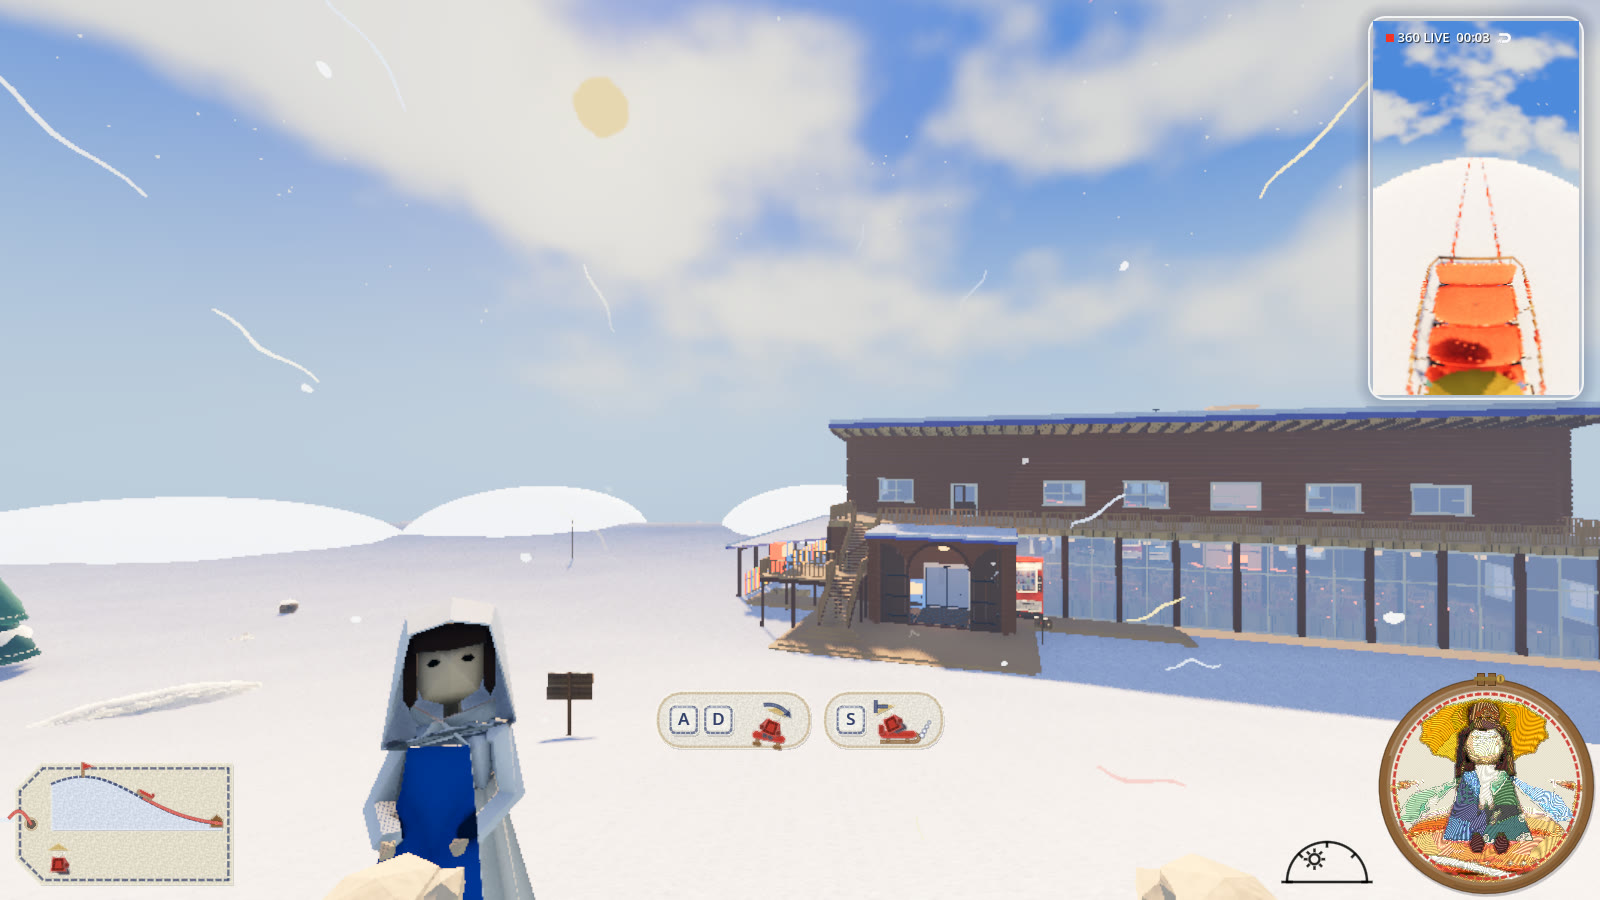
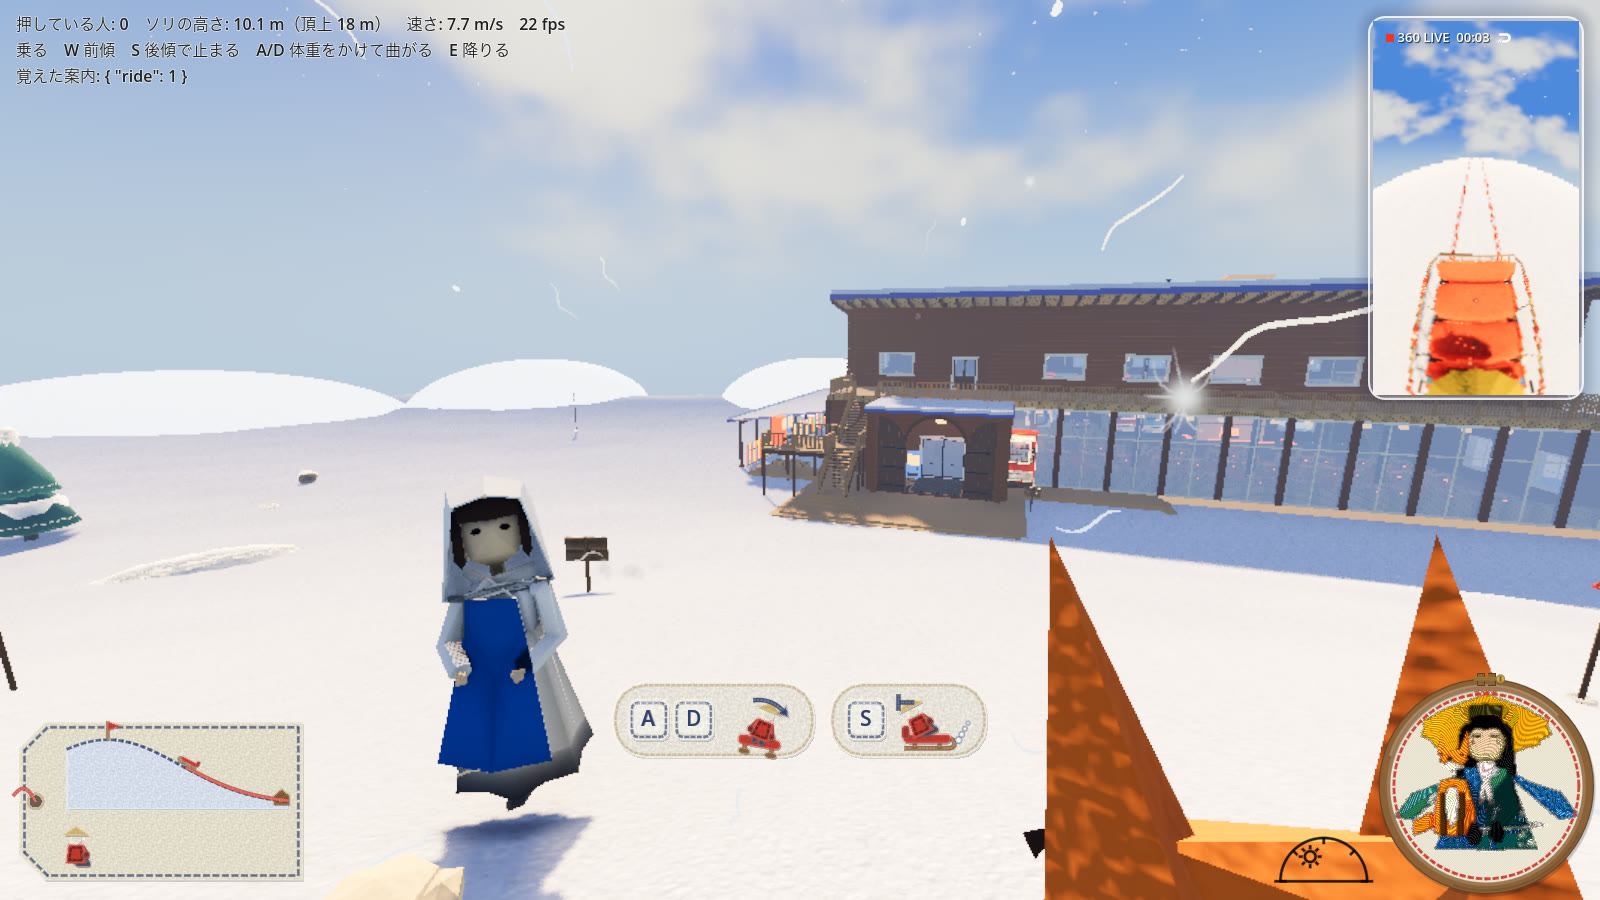
右下の小窓に、自分・連れ・持ち物だけを映す
小窓に映すのを、自分の人形・連れの動物・手に持った物・自分の身ぶりの飾りだけにした。地面・ソリ・ほかの人・木・ロッジ・空は映さず、背景は刺繍枠の布の地。
- 小窓のカメラは、自分の体の層（層 2）と小窓だけの層（層 6）だけを映す
- 自分の白い息を自分の体の層にも入れ、子狐とハイタッチの紙吹雪を層 6 にも入れた（ほかの画面の見え方は変わらない）
- 足もとに丸い影を敷き（層 6、人形の子なので乗れば座面に）、浮いて見えないようにした
- 塞がれたときに回り込む・壁の手前に寄る・遠くを霧に溶かす処理は要らなくなったので外した
- 少し下から見上げる角度にし、坂を上る・押すときに前へ傾いても笠の下の顔が見えるようにした
- 確かめ用の道具に --pets（連れの動物を出す）と --raw（刺繍にする前の絵）

diff --git a/design/hud.md b/design/hud.md
@@ -50,7 +50,7 @@
 ### 4. そのまま残すもの
 
 - 右下の日時計（`daycycle.gd`）。すでに文字がなく、線だけ。右下の自分の小窓の左に並ぶ
-- 右下の自分の小窓（`self_cam.gd`）。自分の人形を前から映し、刺繍枠の丸窓にサテンステッチで縫った絵として出す（設定「右下の自分の姿（前から）」で切れる）。場面ごとの絵は [docs/shots/self-cam](../docs/shots/self-cam/scenes.png)
+- 右下の自分の小窓（`self_cam.gd`）。自分の人形・連れの動物・手に持った物・自分の身ぶりの飾りだけを前から映し（地面・ソリ・ほかの人・建物は映さない）、刺繍枠の布の上にサテンステッチで縫った絵として出す（設定「右下の自分の姿（前から）」で切れる）。場面ごとの絵は [docs/shots/self-cam](../docs/shots/self-cam/scenes.png)
 - 右上の 360° 映像の「360 LIVE 00:12」。カメラの画面をまねた飾りとして残す。「後ろ」の文字は、後ろ向きの矢印の絵にした
 
 ### 5. 確かめ用の表示
